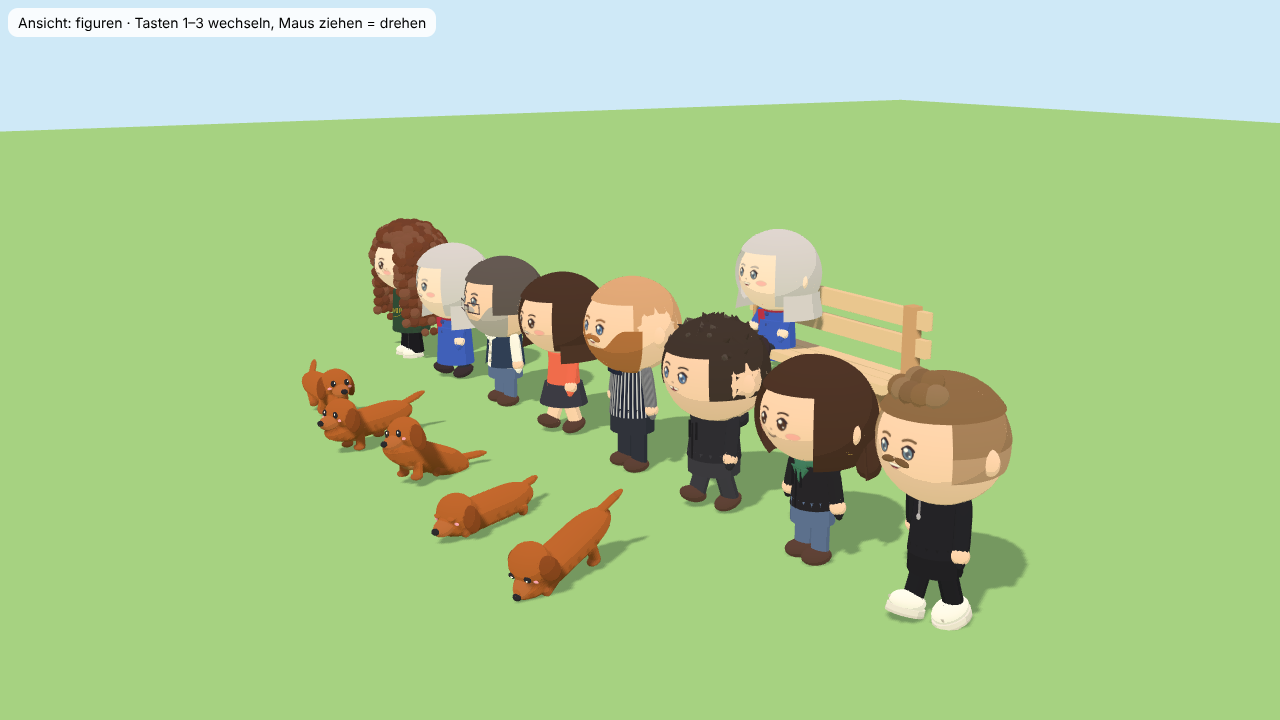
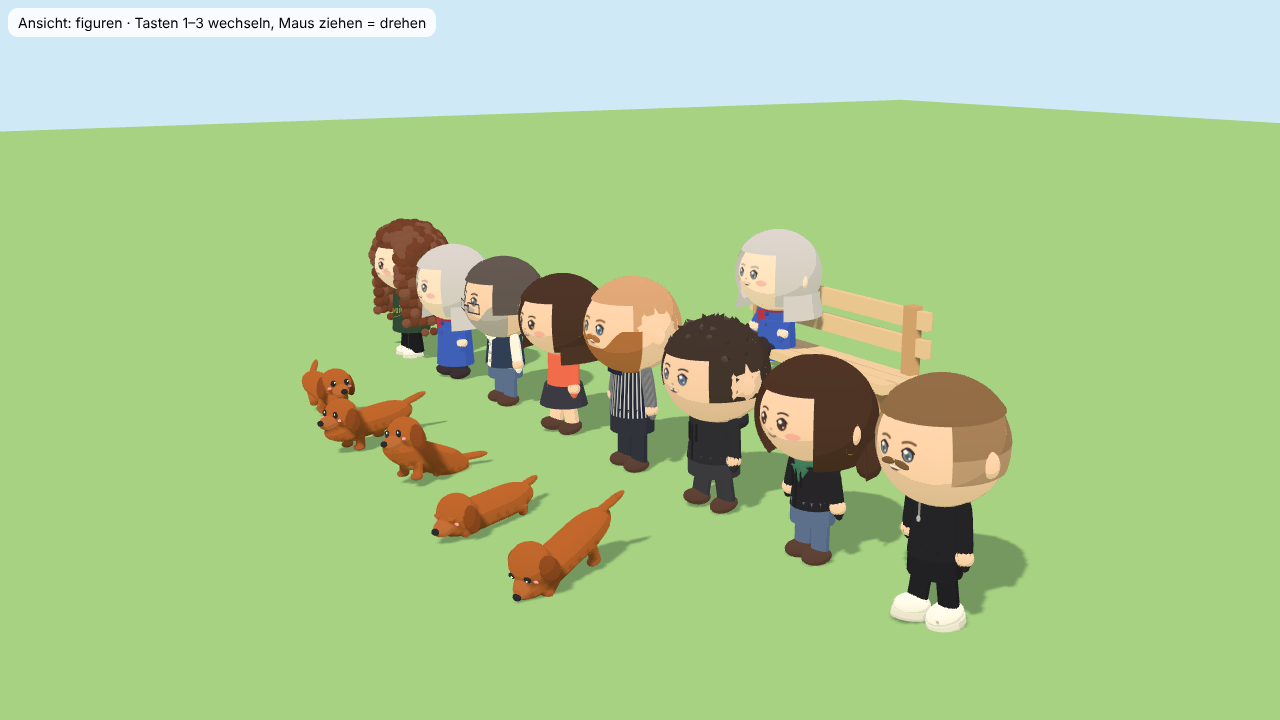
Olis Fade ohne Tolle
Claude-Session: https://claude.ai/code/session_01ThTYhPHTkGtFy4ue8CC8z3

diff --git a/src/world3d/models/chibi3d.ts b/src/world3d/models/chibi3d.ts
@@ -424,16 +424,13 @@ function addHair(head: THREE.Group, a: Appearance, R: number) {
       break;
     }
     case 'fade': {
-      // Fade: Seiten und Nacken ganz kurz (nach unten immer hautnäher), oben etwas längeres, nach oben/hinten gestyltes Deckhaar
+      // Fade: Seiten und Nacken ganz kurz (nach unten immer hautnäher), oben etwas längeres, glattes Deckhaar (ohne Tolle)
       const buzz = mixHex(a.skinTone, col, 0.55);
       const graded = mixHex(a.skinTone, col, 0.8);
       backCap(1.9, 1.012, buzz, 0.95);
       backCap(1.5, 1.022, graded, 0.95);
       topCap(1.02, 1.085);
-      head.add(shell(R * 1.1, col, FRONT - 0.95, 1.9, 0.3, 0.5)); // kurzer Pony, nach oben gestylt
-      // flache Tolle über der Stirn (breit statt hoch – sonst wirkt es wie ein Dutt)
-      for (let i = 0; i < 5; i++) blob(onSphere(R * 1.07, 0.62, FRONT + (i - 2) * 0.32), R * 0.2, shades[i % 3]);
-      for (let i = 0; i < 3; i++) blob(onSphere(R * 1.09, 0.38, FRONT + (i - 1) * 0.38), R * 0.2, shades[(i + 1) % 3]);
+      head.add(shell(R * 1.1, col, FRONT - 0.95, 1.9, 0.3, 0.5)); // kurzer, glatter Pony
       break;
     }
     case 'zerzaust': {
